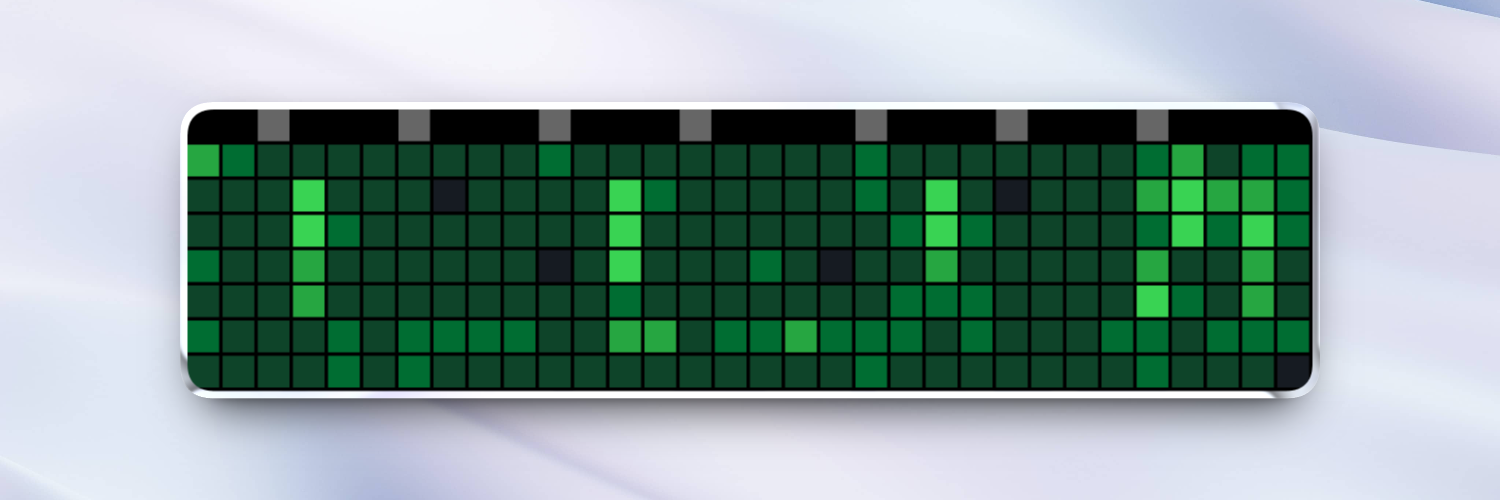
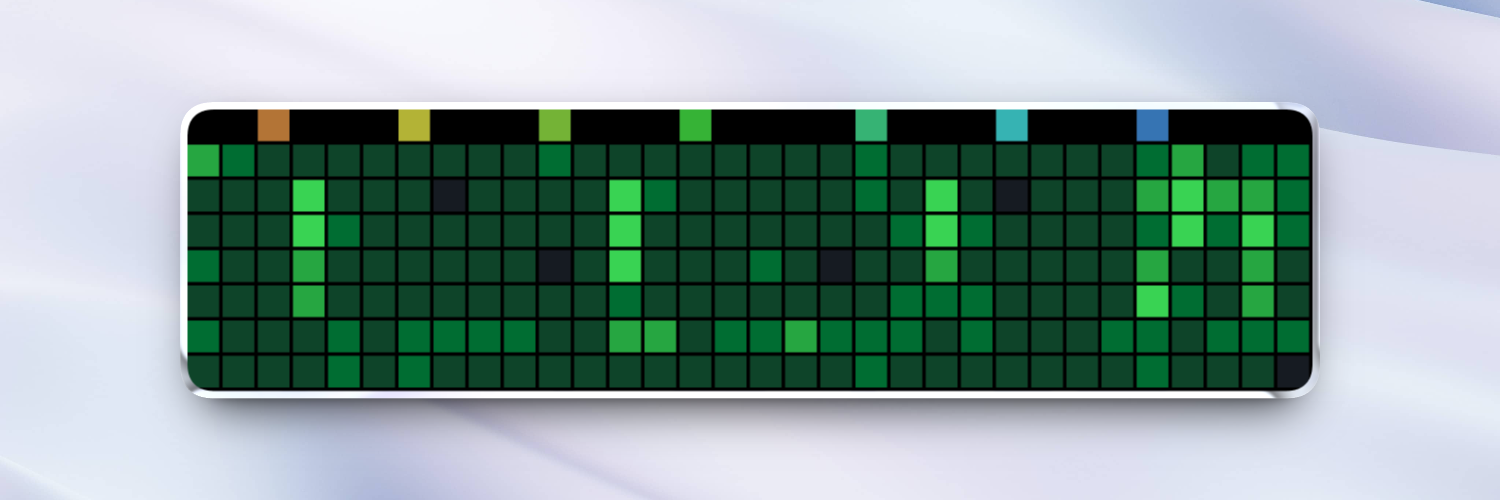
feat: rainbow month markers

diff --git a/worker/src/index.js b/worker/src/index.js
@@ -1,6 +1,6 @@
 // GitHub contribution heatmap for AWTRIX NG.
 //
-// GET /?user=<github_username>
+// GET /?user=<github_username>[&rainbow=0]
 //
 // Returns a flat JSON array of 256 packed 0xRRGGBB integers (32x8, row-major)
 // ready for the Berry app to paint pixel-by-pixel.
@@ -45,8 +45,9 @@ export default {
 async function handle(request, env) {
   const q = new URL(request.url).searchParams;
   const user = request.headers.get("X-User") || q.get("user");
+  const rainbow = (request.headers.get("X-Rainbow") || q.get("rainbow") || "1") !== "0";
 
-  console.log("request", { user });
+  console.log("request", { user, rainbow });
 
   if (!user) return json({ error: "missing user" }, 400);
 
@@ -115,14 +116,38 @@ async function handle(request, env) {
   }
 
   console.log("github response", { user, days: days.length });
-  return json(buildGrid(days));
+  return json(buildGrid(days, { rainbow }));
 }
 
 // ---------------------------------------------------------------------------
 // Pure computation — exported for testing.
 // ---------------------------------------------------------------------------
 
-export function buildColumn(dayList) {
+// Rainbow months: each month's marker gets a fixed hue on the color wheel,
+// so adjacent months are visually distinct at a glance.
+export function monthHue(month) {
+  return ((month - 1) / 12) * 360;
+}
+
+export function hsvToPacked(h, s, v) {
+  s /= 100;
+  v /= 100;
+  const c = v * s;
+  const x = c * (1 - Math.abs(((h / 60) % 2) - 1));
+  const m = v - c;
+  let r, g, b;
+  if (h < 60) { r = c; g = x; b = 0; }
+  else if (h < 120) { r = x; g = c; b = 0; }
+  else if (h < 180) { r = 0; g = c; b = x; }
+  else if (h < 240) { r = 0; g = x; b = c; }
+  else if (h < 300) { r = x; g = 0; b = c; }
+  else { r = c; g = 0; b = x; }
+  return (Math.round((r + m) * 255) << 16) |
+         (Math.round((g + m) * 255) << 8) |
+          Math.round((b + m) * 255);
+}
+
+export function buildColumn(dayList, rainbow) {
   const col = new Array(PANEL_H).fill(0);
   let markerSet = false;
   for (const d of dayList) {
@@ -133,14 +158,16 @@ export function buildColumn(dayList) {
       col[row] = LEVEL_COLORS[d.level] ?? LEVEL_COLORS[4];
     }
     if (!markerSet && dt.getUTCDate() === 1) {
-      col[0] = MONTH_MARKER;
+      col[0] = rainbow
+        ? hsvToPacked(monthHue(dt.getUTCMonth() + 1), 70, 70)
+        : MONTH_MARKER;
       markerSet = true;
     }
   }
   return col;
 }
 
-export function buildGrid(days) {
+export function buildGrid(days, { rainbow = true } = {}) {
   const lastDate = new Date(days[days.length - 1].date + "T00:00:00Z");
   const lastDow = lastDate.getUTCDay();
   const daysFromSat = (6 - lastDow + 7) % 7;
@@ -164,7 +191,7 @@ export function buildGrid(days) {
     if (!daysInWeek || daysInWeek.length === 0) {
       columns.push(new Array(PANEL_H).fill(0));
     } else {
-      columns.push(buildColumn(daysInWeek));
+      columns.push(buildColumn(daysInWeek, rainbow));
     }
   }
 

diff --git a/README.md b/README.md
@@ -15,7 +15,7 @@ AWTRIX app ──▶ Cloudflare Worker ──GraphQL──▶ GitHub API
 | `github-heatmap.ax` | AWTRIX NG custom app (Berry): fetches the worker on an interval and paints the response                    |
 | `workers/`          | Cloudflare Worker: queries the GitHub GraphQL contribution calendar and renders it as the JSON array above |
 
-Rendering conventions: the panel shows the last 32 weeks; rows 1–7 map Sunday through Saturday, the rightmost column is the current week, and row 0 carries the grey month marker.
+Rendering conventions: the panel shows the last 32 weeks; rows 1–7 map Sunday through Saturday, the rightmost column is the current week, and row 0 carries the month marker (grey, or a per-month hue when Rainbow Months is on).
 
 ## 1. Create a GitHub token
 
@@ -86,6 +86,7 @@ Visit the AWTRIX NG web interface, go to **Scripts** and paste `github-heatmap.a
 | Server URL                              | The worker URL from step 2                                                |
 | Username                                | GitHub username                                                           |
 | (optional) CF Access Client ID / Secret | The service token from step 3. Leave empty if not using Cloudflare Access |
+| Rainbow Months                          | Color the month marker with a per-month hue; on by default        |
 | Refresh                                 | Refresh interval in minutes                                               |
 
 Behavior notes: the **select** button forces an immediate refresh; failed requests back off exponentially starting at 30 s, capped at `every`.
